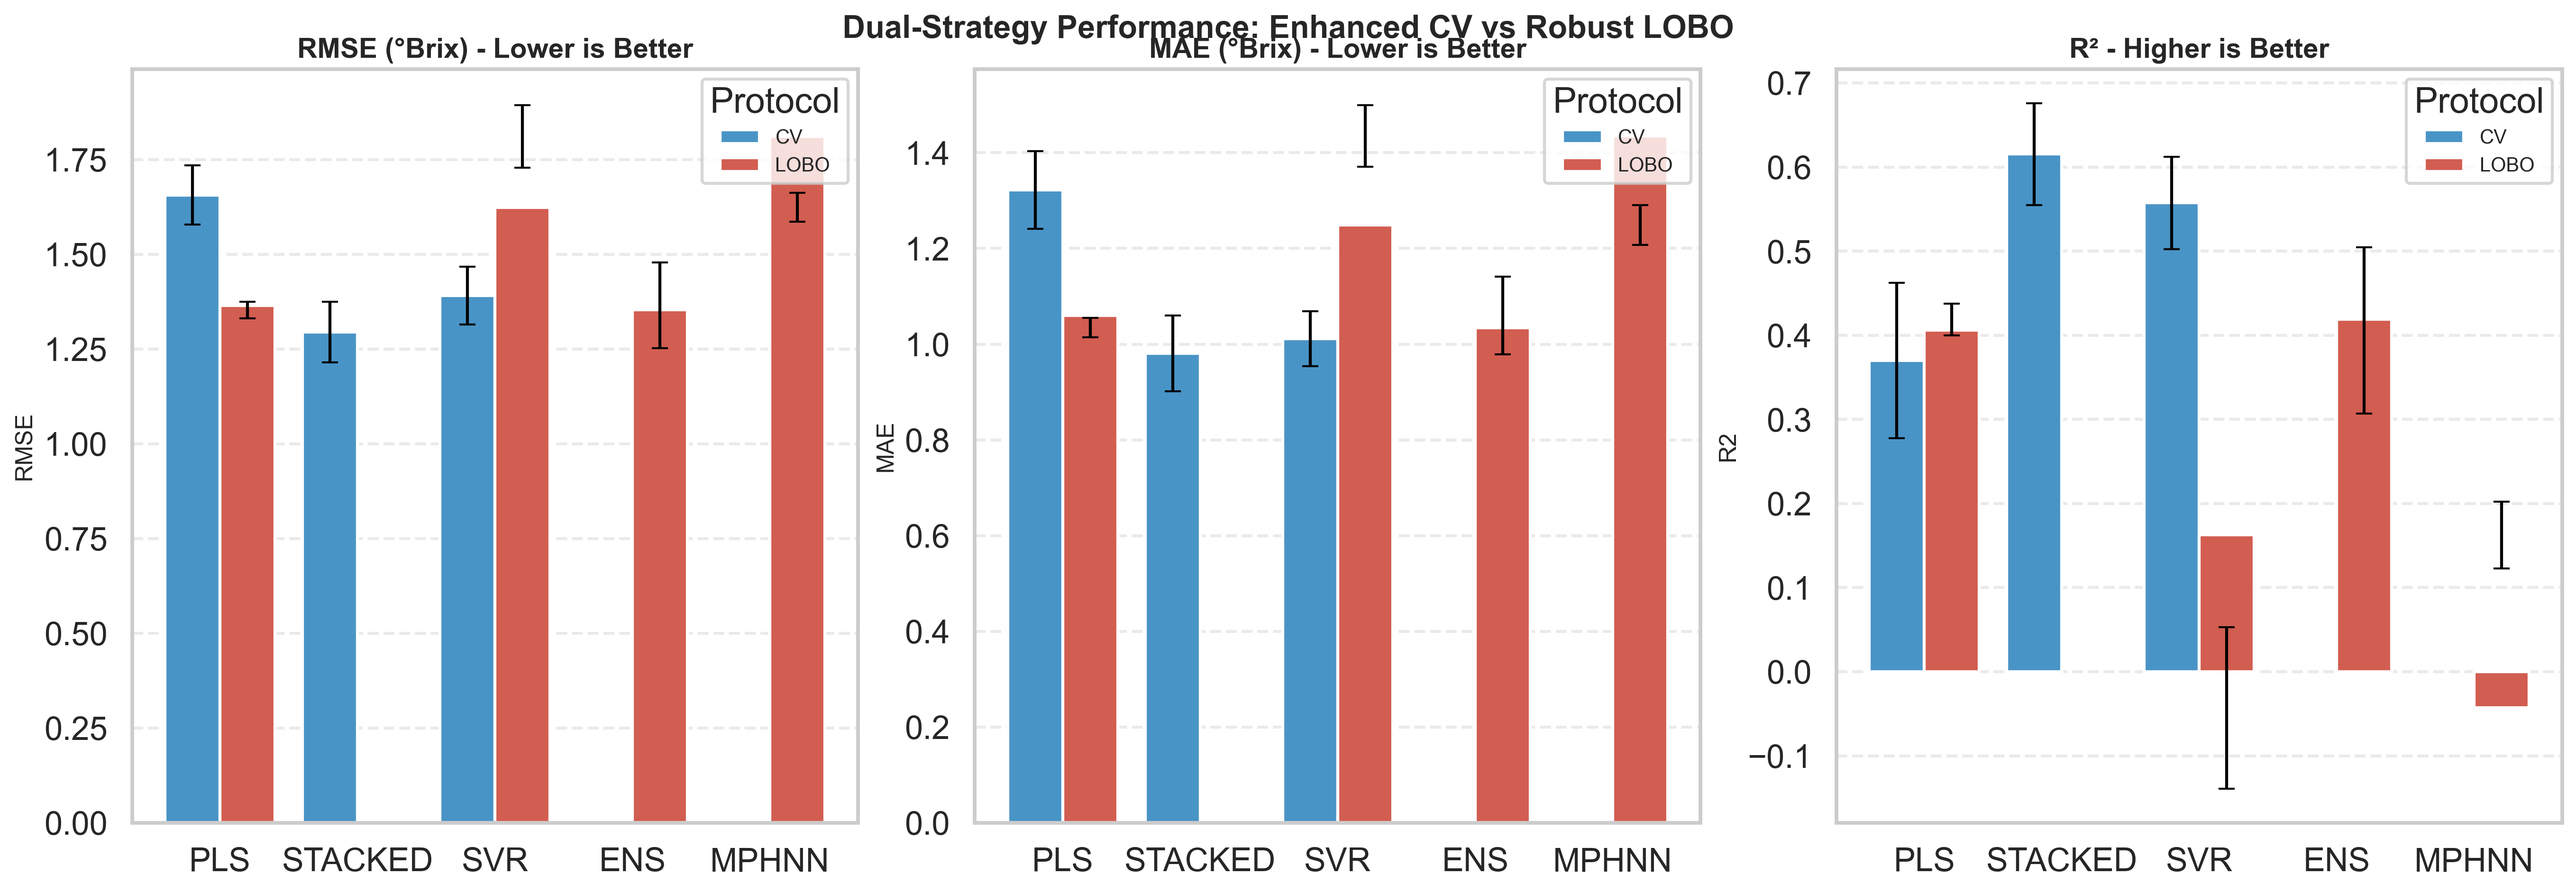
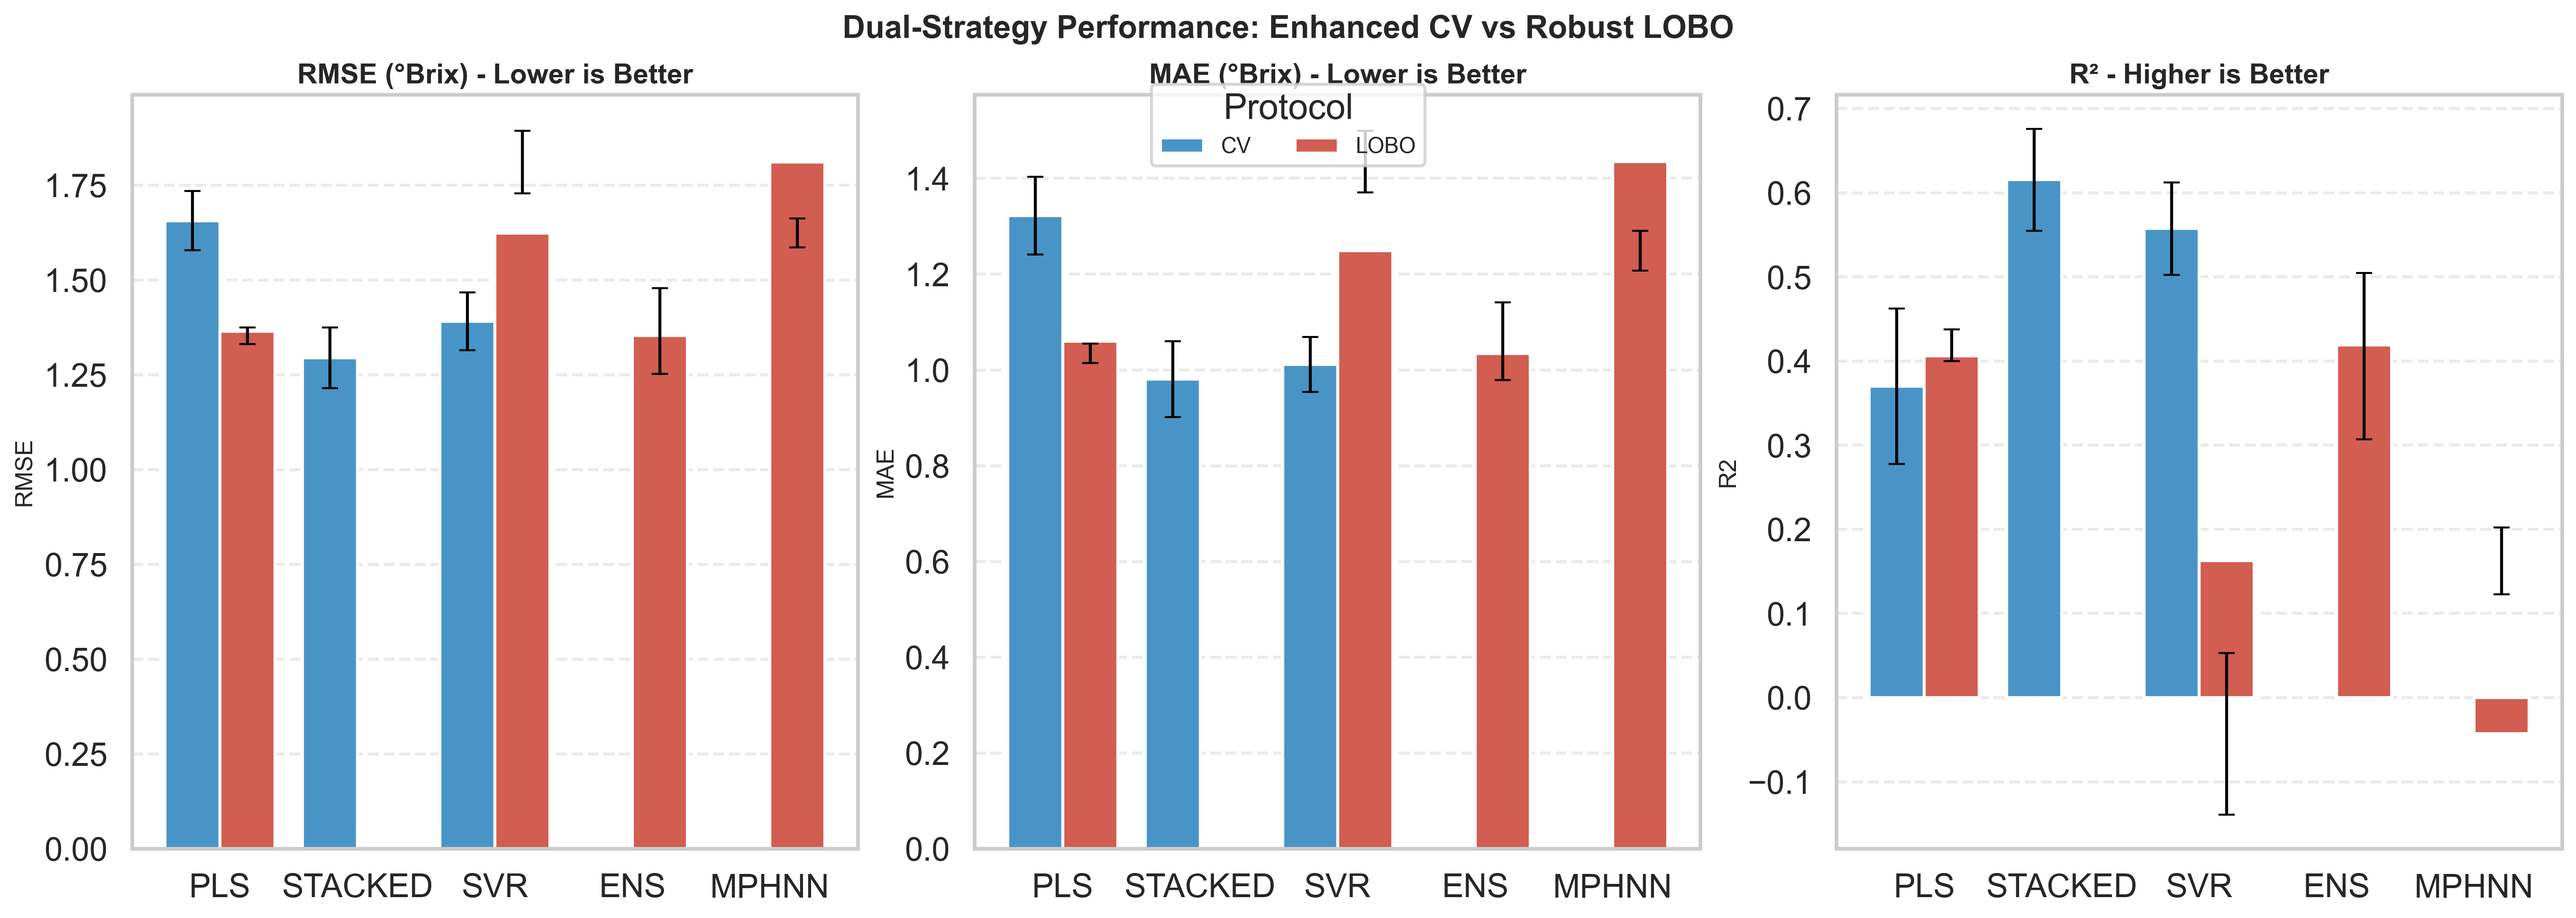
Update

diff --git a/img/sourceCode/plot_dual_strategy_performance.py b/img/sourceCode/plot_dual_strategy_performance.py
@@ -92,10 +92,18 @@ def main():
         ax.set_xlabel("")
         ax.set_ylabel(metric.upper(), fontsize=12)
         ax.grid(axis='y', linestyle='--', alpha=0.4)
-        ax.legend(title="Protocol", fontsize=10)
+    
+    # Create a single legend for the entire figure (instead of per-subplot)
+    handles, labels = axes[0].get_legend_handles_labels()
+    fig.legend(handles, labels, title="Protocol", fontsize=11, 
+               loc='upper center', bbox_to_anchor=(0.5, 0.98), ncol=2, frameon=True)
+    
+    # Remove individual subplot legends
+    for ax in axes:
+        ax.get_legend().remove()
     
     fig.suptitle("Dual-Strategy Performance: Enhanced CV vs Robust LOBO", 
-                 fontsize=16, fontweight='bold', y=1.02)
+                 fontsize=16, fontweight='bold', y=1.05)
     
     out_path = os.path.join(img_out_dir, "methods_performance.png")
     fig.savefig(out_path, dpi=300, bbox_inches='tight')
